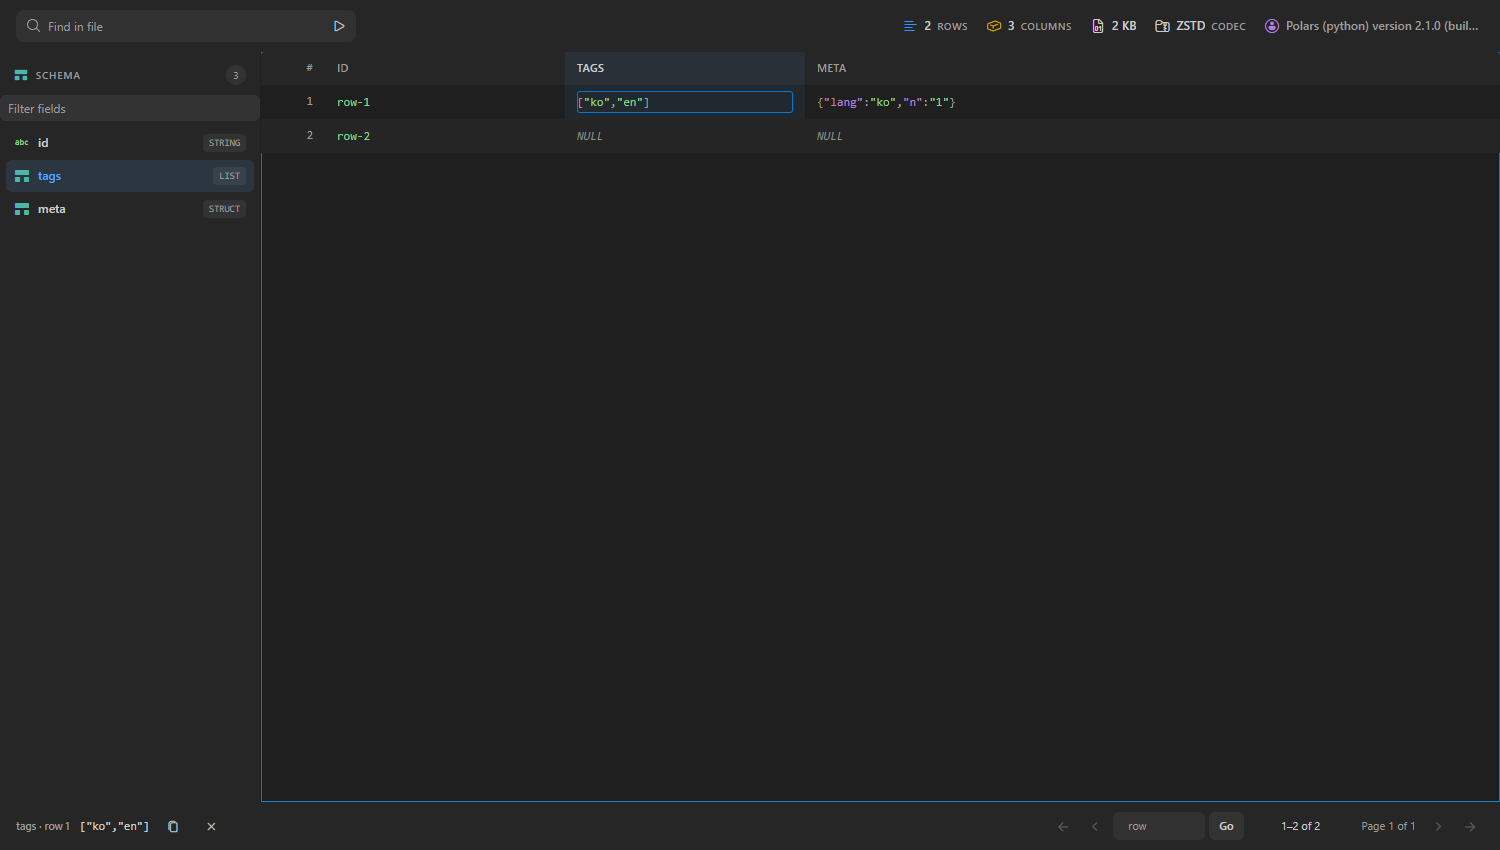
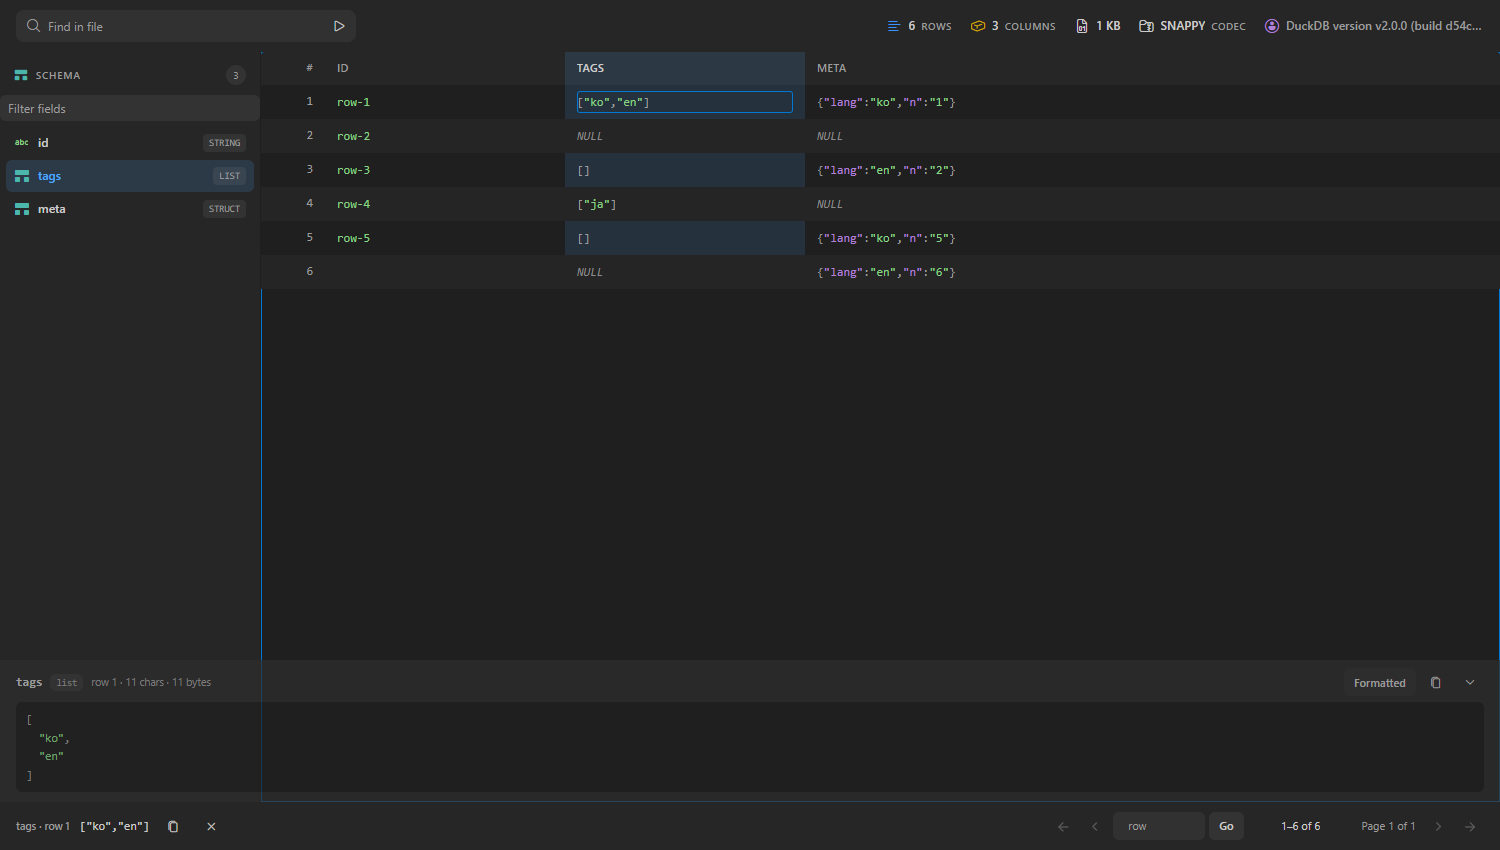
fix(parquet): pretty-print and colour JSON strings in the value panel
A JSON object stored as a STRING (the Hugging Face \
aw\ shape) stayed one escaped line in Formatted: the panel only parsed real LIST/STRUCT values, while the grid already parsed JSON strings. The panel now uses the same parse path, pretty-prints with two spaces, and tokenizes the body with the grid's key/string/number/boolean colours; whitespace tokens preserve indentation. Raw still shows the file's escaped string.

Tests: jsonPrettyText and tokenizer whitespace units; a UI scenario for a meta_json STRING (pretty body, token classes, raw toggle); the value panel screenshot now ends open/formatted. Gates: check 840, verify:ui 109/109, verify:perf 13/13.

diff --git a/src/react/view/parquet/parquetPreview.ts b/src/react/view/parquet/parquetPreview.ts
@@ -7,11 +7,30 @@
  * what counts as a JSON container and how much of a long one is rendered.
  */
 
-export type JsonTokenType = "key" | "string" | "number" | "boolean" | "null" | "punct" | "ellipsis";
+export type JsonTokenType =
+  | "key"
+  | "string"
+  | "number"
+  | "boolean"
+  | "null"
+  | "punct"
+  | "ellipsis"
+  /** Whitespace between tokens; only emitted when `preserveWhitespace` is on (the inspector). */
+  | "space";
 
 export interface JsonToken {
   type: JsonTokenType;
   text: string;
+}
+
+export interface JsonTokenizeOptions {
+  /**
+   * Emit the text between tokens as `space` tokens. The grid's one-line preview does not need
+   * it; the expanded inspector renders indented JSON and must preserve newlines/indentation.
+   */
+  preserveWhitespace?: boolean;
+  maxTokens?: number;
+  maxChars?: number;
 }
 
 /** Enough tokens to explain a nested row at a glance; the title still has the full value. */
@@ -25,31 +44,30 @@ function isPlainRecord(value: unknown): value is Record<string, unknown> {
   );
 }
 
-function stringifyJsonContainer(value: unknown): string | null {
+function stringifyJsonContainer(value: unknown, space: number): string | null {
   try {
     return (
-      JSON.stringify(value, (_key, item: unknown) => {
-        if (item instanceof Uint8Array)
-          return `0x${Array.from(item, (byte) => byte.toString(16).padStart(2, "0")).join("")}`;
-        if (item instanceof ArrayBuffer) {
-          return `0x${Array.from(new Uint8Array(item), (byte) => byte.toString(16).padStart(2, "0")).join("")}`;
-        }
-        if (typeof item === "bigint") return item.toString();
-        return item;
-      }) ?? null
+      JSON.stringify(
+        value,
+        (_key, item: unknown) => {
+          if (item instanceof Uint8Array)
+            return `0x${Array.from(item, (byte) => byte.toString(16).padStart(2, "0")).join("")}`;
+          if (item instanceof ArrayBuffer) {
+            return `0x${Array.from(new Uint8Array(item), (byte) => byte.toString(16).padStart(2, "0")).join("")}`;
+          }
+          if (typeof item === "bigint") return item.toString();
+          return item;
+        },
+        space,
+      ) ?? null
     );
   } catch {
     return null;
   }
 }
 
-/**
- * Canonical JSON text for a container, or null when the cell is a scalar.
- *
- * A string is only parsed when its first non-space character is `[` or `{`: a description
- * that merely contains a bracketed phrase must stay plain text.
- */
-export function jsonPreviewText(value: unknown): string | null {
+/** The parsed container behind a cell, or null when the cell is a scalar/plain string. */
+function parseJsonContainer(value: unknown): unknown {
   let parsed: unknown = value;
   if (typeof value === "string") {
     const text = value.trim();
@@ -61,7 +79,28 @@ export function jsonPreviewText(value: unknown): string | null {
     }
   }
   if (!Array.isArray(parsed) && !isPlainRecord(parsed)) return null;
-  return stringifyJsonContainer(parsed);
+  return parsed;
+}
+
+/**
+ * Canonical one-line JSON text for a container, or null when the cell is a scalar.
+ *
+ * A string is only parsed when its first non-space character is `[` or `{`: a description
+ * that merely contains a bracketed phrase must stay plain text.
+ */
+export function jsonPreviewText(value: unknown): string | null {
+  const parsed = parseJsonContainer(value);
+  return parsed === null ? null : stringifyJsonContainer(parsed, 0);
+}
+
+/**
+ * Indented JSON for the expanded inspector. A STRING containing a JSON object is parsed too:
+ * Hugging Face/Polars files often store a whole object as a string, and "Formatted" must not
+ * leave it as one escaped line (the grid already treats it as a container).
+ */
+export function jsonPrettyText(value: unknown): string | null {
+  const parsed = parseJsonContainer(value);
+  return parsed === null ? null : stringifyJsonContainer(parsed, 2);
 }
 
 /**
@@ -69,27 +108,39 @@ export function jsonPreviewText(value: unknown): string | null {
  * only labels syntax. Keys are strings followed by `:`, which is the one piece of context a
  * flat token list needs to distinguish `"name"` from `"alpha"`.
  */
-export function tokenizeJson(text: string): JsonToken[] {
+export function tokenizeJson(text: string, options: JsonTokenizeOptions = {}): JsonToken[] {
   const tokenPattern =
     /("(?:\\.|[^"\\])*")|([{}[\],:])|(-?\d+(?:\.\d+)?(?:[eE][+-]?\d+)?)|(true|false|null)/g;
   const tokens: JsonToken[] = [];
+  const maxTokens = options.maxTokens ?? MAX_PREVIEW_TOKENS;
+  const maxChars = options.maxChars ?? MAX_PREVIEW_CHARS;
   let usedChars = 0;
+  let lastEnd = 0;
   let match: RegExpExecArray | null;
 
   const appendEllipsis = () => {
     tokens.push({ type: "ellipsis", text: "…" });
   };
+  /** Preserve the gap before the next token when the caller renders indented JSON. */
+  const pushGap = (end: number) => {
+    if (!options.preserveWhitespace || end <= lastEnd) return;
+    tokens.push({ type: "space", text: text.slice(lastEnd, end) });
+    lastEnd = end;
+  };
 
   while ((match = tokenPattern.exec(text))) {
+    pushGap(match.index);
     const raw = match[0];
-    if (tokens.length >= MAX_PREVIEW_TOKENS) {
+    const end = match.index + raw.length;
+    lastEnd = end;
+    if (tokens.length >= maxTokens) {
       appendEllipsis();
       return tokens;
     }
 
     let type: JsonTokenType = "punct";
     if (match[1]) {
-      const after = text.slice(tokenPattern.lastIndex);
+      const after = text.slice(end);
       type = /^\s*:/.test(after) ? "key" : "string";
     } else if (match[3]) {
       type = "number";
@@ -97,7 +148,7 @@ export function tokenizeJson(text: string): JsonToken[] {
       type = match[4] === "null" ? "null" : "boolean";
     }
 
-    const remaining = MAX_PREVIEW_CHARS - usedChars;
+    const remaining = maxChars - usedChars;
     if (raw.length > remaining) {
       tokens.push({ type, text: `${raw.slice(0, Math.max(1, remaining - 1))}…` });
       return tokens;
@@ -106,5 +157,6 @@ export function tokenizeJson(text: string): JsonToken[] {
     usedChars += raw.length;
   }
 
+  pushGap(text.length);
   return tokens;
 }

diff --git a/src/react/view/parquet/useParquetInspection.ts b/src/react/view/parquet/useParquetInspection.ts
@@ -3,7 +3,7 @@ import { $t } from "../../i18n/i18nConfig.ts";
 import { formatCellValue } from "@/common/parquetCellFormat";
 import type { ParquetColumnInfo } from "@/common/parquetReader";
 import { ANNOUNCE_DELAY_MS } from "./parquetLayout";
-import { jsonPreviewText } from "./parquetPreview";
+import { jsonPrettyText, jsonPreviewText, tokenizeJson, type JsonToken } from "./parquetPreview";
 
 /**
  * How much of a value the expanded panel renders. A LIST column can hold thousands of elements;
@@ -24,6 +24,8 @@ export interface ParquetInspection {
   body: string;
   key: string;
   size: { chars: number; bytes: number; shown: string; truncated: boolean };
+  /** Colourisable syntax tokens for the expanded body; null when it is not JSON. */
+  tokens: JsonToken[] | null;
   expanded: boolean;
   raw: boolean;
   announcement: string;
@@ -53,28 +55,27 @@ export function useParquetInspection(
       ? $t("parquet.nullLabel")
       : formatCellValue(inspected.value, type)
     : "";
-  const text =
-    inspected && inspected.value !== null && typeof inspected.value === "object"
-      ? (jsonPreviewText(inspected.value) ?? full)
-      : full;
+  // The grid already treats a JSON *string* as a container; the bar and panel must agree.
+  const jsonCompact = inspected ? jsonPreviewText(inspected.value) : null;
+  const jsonPretty = inspected ? jsonPrettyText(inspected.value) : null;
+  const text = inspected ? (jsonCompact ?? full) : "";
 
   const body = useMemo(() => {
     if (!inspected) return "";
-    // `raw` means two different things, both "as the file stores it": a container becomes compact
-    // JSON instead of indented, and a string becomes escaped instead of literal.
+    if (jsonPretty !== null) {
+      // A JSON string's raw form is the file's string (quoted and escaped), not the pretty
+      // object; a real container's raw form is compact JSON.
+      if (typeof inspected.value === "string") {
+        return raw ? JSON.stringify(inspected.value) : jsonPretty;
+      }
+      return raw ? (jsonCompact ?? full) : jsonPretty;
+    }
     if (typeof inspected.value === "string") {
       return raw ? JSON.stringify(inspected.value) : inspected.value;
     }
     if (inspected.value === null || inspected.value === undefined) return full;
-    if (typeof inspected.value === "object") {
-      try {
-        return JSON.stringify(inspected.value, null, raw ? 0 : 2);
-      } catch {
-        return full;
-      }
-    }
     return full;
-  }, [full, inspected, raw]);
+  }, [full, inspected, jsonCompact, jsonPretty, raw]);
 
   const size = useMemo(() => {
     const capped = body.slice(0, INSPECT_PREVIEW_LIMIT);
@@ -85,6 +86,17 @@ export function useParquetInspection(
       truncated: body.length > capped.length,
     };
   }, [body, full]);
+
+  const tokens = useMemo(() => {
+    if (jsonPretty === null) return null;
+    // No grid caps here: `shown` is already bounded by INSPECT_PREVIEW_LIMIT, and the body must
+    // keep its newlines/indentation for the expanded reader.
+    return tokenizeJson(size.shown, {
+      preserveWhitespace: true,
+      maxTokens: Number.POSITIVE_INFINITY,
+      maxChars: Number.POSITIVE_INFINITY,
+    });
+  }, [jsonPretty, size.shown]);
 
   /**
    * Expansion is derived from the selection's identity, not reset by an effect: a new cell is a
@@ -114,6 +126,7 @@ export function useParquetInspection(
     body,
     key,
     size,
+    tokens,
     expanded,
     raw,
     announcement,

diff --git a/test/unit/parquet-preview.test.ts b/test/unit/parquet-preview.test.ts
@@ -1,6 +1,6 @@
 import assert from "node:assert/strict";
 import test from "node:test";
-import { jsonPreviewText, tokenizeJson } from "@/react/view/parquet/parquetPreview";
+import { jsonPrettyText, jsonPreviewText, tokenizeJson } from "@/react/view/parquet/parquetPreview";
 
 test("parquet preview: JSON list strings become canonical JSON", () => {
   assert.equal(jsonPreviewText('["alpha", "beta"]'), '["alpha","beta"]');
@@ -23,6 +23,37 @@ test("parquet preview: scalars and malformed JSON stay plain text", () => {
   assert.equal(jsonPreviewText("a [bracketed] phrase"), null);
   assert.equal(jsonPreviewText(3), null);
   assert.equal(jsonPreviewText(null), null);
+});
+
+test("parquet preview: the inspector pretty-prints real containers and JSON strings", () => {
+  assert.equal(
+    jsonPrettyText('{"source":"hf","index":0,"ok":true}'),
+    '{\n  "source": "hf",\n  "index": 0,\n  "ok": true\n}',
+  );
+  assert.equal(jsonPrettyText(["alpha"]), '[\n  "alpha"\n]');
+  assert.equal(jsonPrettyText({ a: 1, b: [true] }), '{\n  "a": 1,\n  "b": [\n    true\n  ]\n}');
+  assert.equal(jsonPrettyText("alpha"), null);
+  assert.equal(jsonPrettyText("[not json"), null);
+  assert.equal(jsonPrettyText(null), null);
+  assert.equal(jsonPrettyText('"quoted"'), null);
+});
+
+test("parquet preview: the inspector tokenizer keeps whitespace for indentation", () => {
+  const text = '{\n  "source": "hf",\n  "index": 0\n}';
+  const tokens = tokenizeJson(text, {
+    preserveWhitespace: true,
+    maxTokens: Number.POSITIVE_INFINITY,
+    maxChars: Number.POSITIVE_INFINITY,
+  });
+  assert.equal(tokens.map((token) => token.text).join(""), text);
+  assert.deepEqual(
+    tokens.filter((token) => token.type === "space").map((token) => token.text),
+    ["\n  ", " ", "\n  ", " ", "\n"],
+  );
+  // Keys are still labelled across the whitespace gap.
+  assert.ok(tokens.some((token) => token.type === "key" && token.text === '"source"'));
+  assert.ok(tokens.some((token) => token.type === "string" && token.text === '"hf"'));
+  assert.ok(tokens.some((token) => token.type === "number" && token.text === "0"));
 });
 
 test("parquet preview: tokenizer labels syntax so the cell can colour it", () => {

diff --git a/src/react/view/parquet/ParquetInspector.tsx b/src/react/view/parquet/ParquetInspector.tsx
@@ -88,7 +88,16 @@ const ParquetInspector = memo(function ParquetInspector({
             </span>
           </header>
           <pre className="parquet-viewer__inspector-body">
-            {inspection.size.shown}
+            {inspection.tokens
+              ? inspection.tokens.map((token, index) => (
+                  <span
+                    key={index}
+                    className={`parquet-viewer__json-token parquet-viewer__json-token--${token.type}`}
+                  >
+                    {token.text}
+                  </span>
+                ))
+              : inspection.size.shown}
             {inspection.size.truncated
               ? $t("parquet.cappedSuffix", { max: INSPECT_PREVIEW_LIMIT.toLocaleString() })
               : ""}

diff --git a/src/react/view/parquet/Parquet.less b/src/react/view/parquet/Parquet.less
@@ -868,6 +868,10 @@ body:has(.parquet-app) {
   color: var(--pv-muted);
 }
 
+.parquet-viewer__json-token--space {
+  color: inherit;
+}
+
 .parquet-viewer__json-token--key {
   color: var(--pv-json-key);
 }

diff --git a/CHANGELOG.md b/CHANGELOG.md
@@ -56,6 +56,9 @@ and this project adheres to [Semantic Versioning](https://semver.org/spec/v2.0.0
 
 ### Fixed
 
+- Parquet: the expanded value panel now parses a JSON string (not only real LIST/STRUCT values)
+  and pretty-prints it, with the same key/string/number/boolean colours the grid's JSON cells
+  use. A JSON object stored as a STRING used to stay one escaped line in Formatted mode.
 - JSONL/JSON: the light theme's muted label text measured 4.0:1 on the value panel's surface;
   it now uses the same darker muted value as the parquet surface (≥5.1:1). The UI contrast
   gate now resolves `color-mix()` backgrounds instead of measuring against a higher layer.
